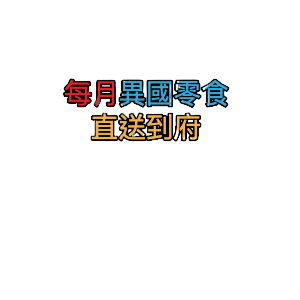
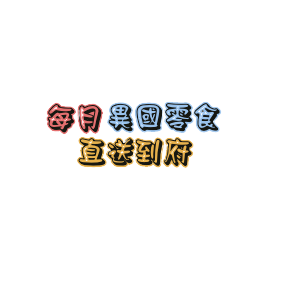
Add login authenticate,Update homepage UI

Changed region(s): [[0.15, 0.24, 0.78, 0.57]]

diff --git a/routes/index.js b/routes/index.js
@@ -4,12 +4,21 @@ const productController = require("../controllers/productController")
 
 
 module.exports = (app) => {
-  app.get("/", (req, res) => {
-    res.redirect("/home")
-  })
-  app.get("/home", (req, res) => {
-    res.render("home")
-  })
+  const authenticated = (req, res, next) => {
+    if (req.isAuthenticated()) {
+      return next()
+    }
+    res.redirect('/signin')
+  }
+  const authenticatedAdmin = (req, res, next) => {
+    if (req.isAuthenticated()) {
+      if (req.user.role === true) { return next() }
+      return res.redirect('/')
+    }
+    res.redirect('/signin')
+  }
+  app.get("/", (req, res) => { res.redirect("/home") })
+  app.get("/home", (req, res) => { res.render("home") })
   // Login
   app.get("/signup", userController.signUpPage)
   app.post("/signup", userController.signUp)

diff --git a/public/stylesheets/index.css b/public/stylesheets/index.css
@@ -2,7 +2,7 @@
 img#slogan {
   position:absolute;
   z-index:2;
-  margin:110px 100px 50px 65px;
+  margin:40px 100px 50px 85px;
   filter:brightness(1.3)
 }
 img#earth {
@@ -63,7 +63,7 @@ a.btn-order {
   z-index:2;
   margin:370px 300px 220px 200px
 }
-a.btn-order :hover {
+a.btn-order:hover {
   background-color: white;
 }
 a.back {
